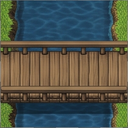
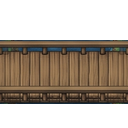
마을 붉은 지붕을 이어지는 기와로, 흙길 가장자리를 풀과 부드럽게, 다리 칸 이음새 고침
- roof.png: 칸마다 박공이 반복되던 그림을 성당 지붕과 같은 이음새 없는 기와로
- 흙길(:) 옆이 풀밭이면 지도 좌표로 정한 들쭉날쭉한 풀 가장자리와 흙 그늘을 덧그림
- 다리 칸 밑에 강물과 강가를 먼저 깔고, bridge.png는 널판 띠만 남겨 옆 칸과 이어지게

Claude-Session: https://claude.ai/code/session_01AsEWbnEm1Lm6e6CjRsyDX2

diff --git a/engine.js b/engine.js
@@ -1911,6 +1911,53 @@
       if (c === 'F') { wctx.save(); wctx.translate(px, py); turned(wctx, T, s, () => wctx.drawImage(art, 0, 0, T, T)); wctx.restore(); }
     }
   }
+  // 흙길 가장자리: 풀밭과 닿은 쪽에 풀이 들쭉날쭉하게 덮이고 안쪽에 흙 그늘을 넣는다.
+  // 들쭉날쭉한 선은 지도 좌표로 정해서 옆 길 칸과 이어진다.
+  const PATHY = ':=|', PM = 32;
+  const hash2 = (a, b) => { let h = (a * 374761393 + b * 668265263) | 0; h = Math.imul(h ^ (h >>> 13), 1274126177); return ((h ^ (h >>> 16)) >>> 0) / 4294967296; };
+  const vnoise = (t, k) => { const i = Math.floor(t), f = t - i, s = f * f * (3 - 2 * f); return hash2(i, k) * (1 - s) + hash2(i + 1, k) * s; };
+  function grassy(x, y) {
+    const c = wcell(x, y); if (c == null || PATHY.includes(c)) return false;
+    const ev = area().events[c], ter = ev ? TERRAIN[ev.ground || area().ground] : TERRAIN[c];
+    if (!ter) return false;
+    return ['grass', 'flowers', 'forest', 'woods'].includes(ter.under ? underTile(ter) : ter.tile);
+  }
+  function pathOverlay(x, y, T) {
+    const side = DX.map((dx, s) => grassy(x + dx, y + DY[s]));
+    const diag = [[1, -1], [1, 1], [-1, 1], [-1, -1]].map(([dx, dy]) => grassy(x + dx, y + dy));
+    if (!side.some(Boolean) && !diag.some(Boolean)) return null;
+    const grass = tileImg('grass', 0), key = 'path|' + S.area + '|' + x + ',' + y + '|' + T + '|' + grass.width;
+    if (EDGE_CACHE.has(key)) return EDGE_CACHE.get(key);
+    // 가장자리에서 풀이 들어오는 깊이 (PM 칸 도트 단위, u: 가장자리를 따라가는 지도 좌표)
+    const depth = (s, u) => 1.5 + 2.6 * vnoise(u / 6, s % 2 ? 11 : 7) + vnoise(u / 2.5, s % 2 ? 5 : 3);
+    const m = new ImageData(PM, PM), rim = new ImageData(PM, PM);
+    for (let j = 0; j < PM; j++) for (let i = 0; i < PM; i++) {
+      const wx = x * PM + i, wy = y * PM + j;
+      const d = [j, PM - 1 - i, PM - 1 - j, i], u = [wx, wy, wx, wy]; // 북·동·남·서
+      let g = -99;
+      for (let s = 0; s < 4; s++) if (side[s]) g = Math.max(g, depth(s, u[s]) - d[s]);
+      // 두 옆이 풀이면 바깥 모서리를 둥글게, 대각선만 풀이면 모서리에 작은 풀 덩이
+      [[0, 1], [2, 1], [2, 3], [0, 3]].forEach(([a, b], k) => {
+        const R = 9;
+        if (side[a] && side[b] && d[a] < R && d[b] < R) g = Math.max(g, Math.hypot(R - d[a], R - d[b]) - R + 0.5);
+        if (!side[a] && !side[b] && diag[k]) g = Math.max(g, 4 + 2.5 * vnoise((wx + wy) / 5, 13) - Math.hypot(d[a], d[b]));
+      });
+      g += (hash2(wx, wy) - 0.5) * 1.1;
+      const p = (j * PM + i) * 4;
+      if (g > 0) m.data[p + 3] = 255;
+      else if (g > -1.6) { rim.data[p] = 70; rim.data[p + 1] = 46; rim.data[p + 2] = 22; rim.data[p + 3] = 90; }
+    }
+    const c = edgeCanvas(T), g = c.getContext('2d'), mc = edgeCanvas(PM), mg = mc.getContext('2d');
+    g.imageSmoothingEnabled = false;
+    mg.putImageData(rim, 0, 0); g.drawImage(mc, 0, 0, T, T);
+    const gc = edgeCanvas(T), gg = gc.getContext('2d');
+    gg.imageSmoothingEnabled = grass.width > 32; gg.drawImage(grass, 0, 0, T, T);
+    mg.putImageData(m, 0, 0);
+    gg.globalCompositeOperation = 'destination-in'; gg.imageSmoothingEnabled = false; gg.drawImage(mc, 0, 0, T, T);
+    g.drawImage(gc, 0, 0);
+    EDGE_CACHE.set(key, c);
+    return c;
+  }
 
   // ----- 마을 사람: wander 칸 안에서 천천히 돌아다니고, 말을 걸면 주인공 쪽을 본다 -----
   let movers = null, moversArea = null;
@@ -2096,10 +2143,15 @@
           if (ter.block && worldArt(ter.tile)) continue; // 아래 blocks 단계에서 한 장으로 그린다
           if (ch === 'r' && worldArt('rug')) { drawRug(x, y, px, py, T); continue; }
           if (ch === 'f' && worldArt('fence') && fenceUpright(x, y)) { drawPicket(px, py, T); continue; }
+          if (ter.tile === 'bridge') { // 다리 밑에 강물과 강가를 먼저 깔아 다리 칸끼리 이어지게 한다
+            blit(tileImg('water', clock), px, py, T);
+            const bits = edgeBits(WATERY, x, y); if (bits) wctx.drawImage(shoreOverlay(bits, T, v), px, py);
+          }
           if (ter.turn) { // 세로 다리: 가로 다리 그림을 90° 돌린다
             wctx.save(); wctx.translate(px + T, py); wctx.rotate(Math.PI / 2);
             blit(tileImg(ter.tile, clock), 0, 0, T); wctx.restore();
           } else blit(tileImg(ter.tile, clock), px, py, T);
+          if (ch === ':') { const o = pathOverlay(x, y, T); if (o) wctx.drawImage(o, px, py); }
           if (ch === '~' || ch === 'w') { const bits = edgeBits(WATERY, x, y); if (bits) wctx.drawImage(shoreOverlay(bits, T, v), px, py); }
           else if (!WOODY.includes(ch)) forestOverhang(x, y, px, py, T);
           continue;
